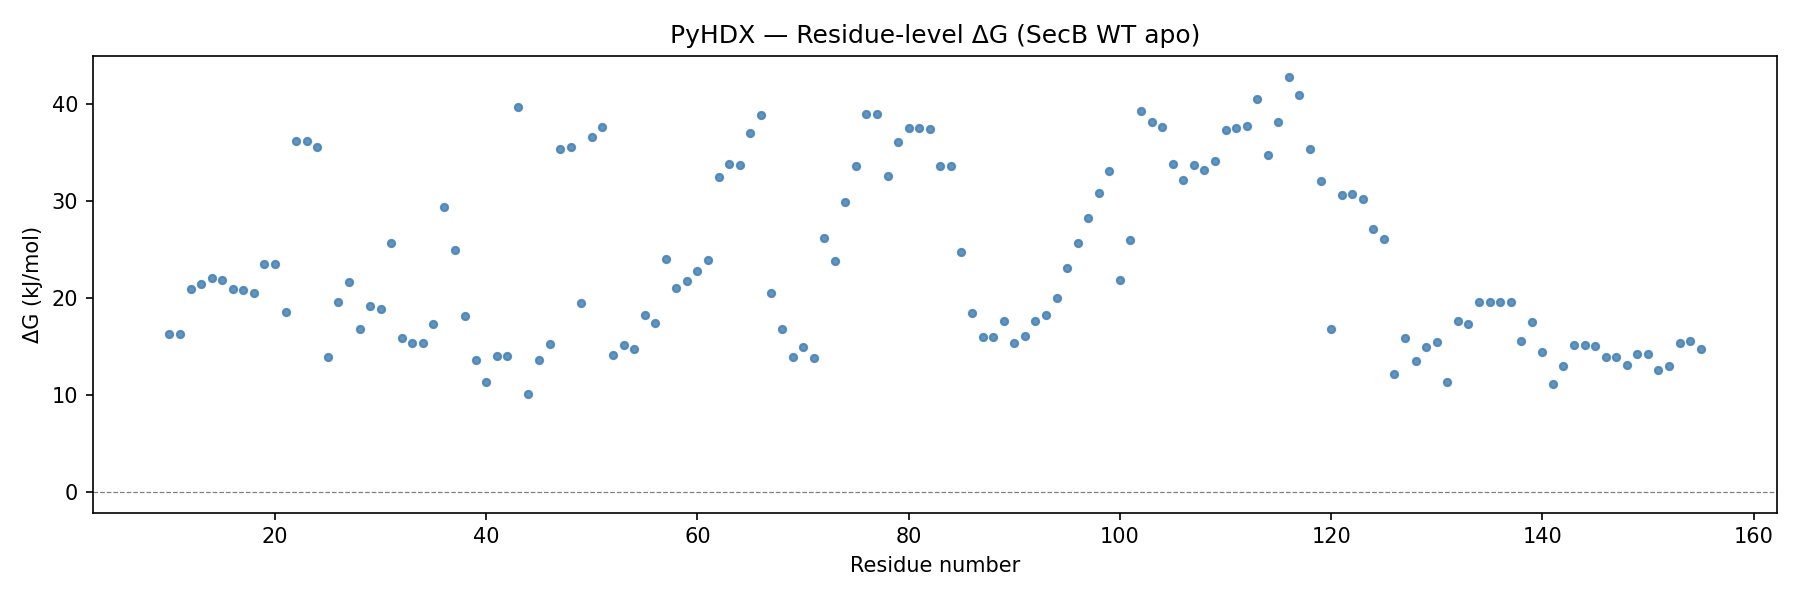
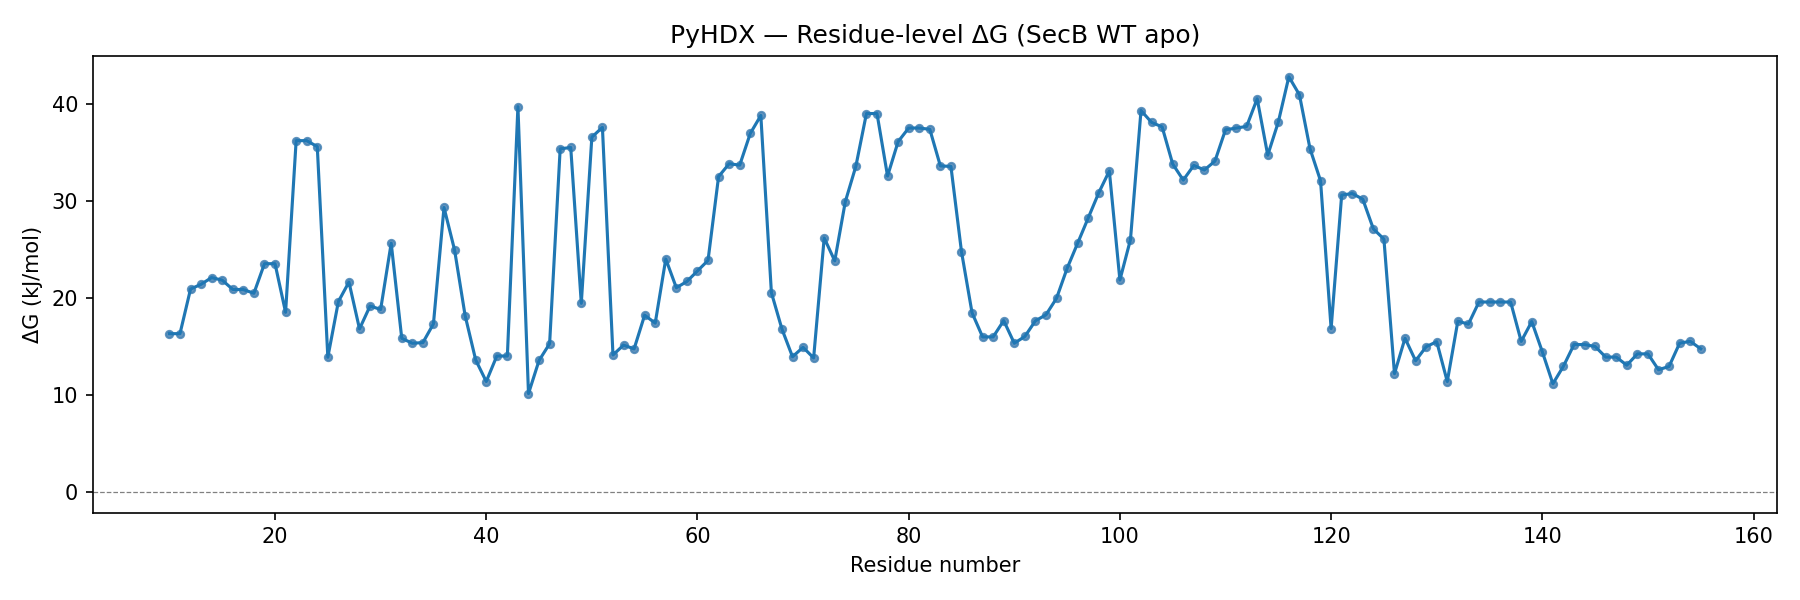
Add structure visualization colored by residue ΔG
Add render_dg_structure.py: loads SecB crystal structure (1QYN chain A),
maps ΔG values as b-factors, and renders a blue-white-red cartoon image.
Update dG plot PNG with connecting line between scatter points.

diff --git a/render_dg_structure.py b/render_dg_structure.py
@@ -1,0 +1,63 @@
+"""
+Render SecB crystal structure (1QYN) colored by residue-level ΔG from PyHDX.
+Color ramp: blue (low ΔG, fast-exchanging) → white → red (high ΔG, well-protected).
+Residues with no ΔG data are shown in grey.
+Output: outputs/pyhdx_dG_structure.png
+"""
+
+import pandas as pd
+from pathlib import Path
+
+# ── Load ΔG data ──────────────────────────────────────────────────────────────
+dg_kj = pd.read_csv("outputs/pyhdx_dG.csv", index_col="r_number")["dG_kJ_mol"]
+dg_min = dg_kj.dropna().min()
+dg_max = dg_kj.dropna().max()
+print(f"ΔG range: {dg_min:.1f} – {dg_max:.1f} kJ/mol  ({len(dg_kj.dropna())} residues)")
+
+# ── Launch PyMOL in headless mode ─────────────────────────────────────────────
+import pymol
+from pymol import cmd
+
+pymol.finish_launching(["pymol", "-cq"])   # -c = no GUI, -q = quiet
+
+# Load the bundled PDB (1QYN, tetramer A/B/C/D)
+PDB = "/tmp/hdxms_data/HDX_D9096080/data/SecB_structure.pdb"
+cmd.load(PDB, "secb")
+
+# Cartoon representation, white background
+cmd.hide("everything", "secb")
+cmd.show("cartoon", "secb")
+cmd.bg_color("white")
+
+# Only show chain A (one monomer is sufficient for interpretation)
+cmd.remove("secb and not chain A")
+
+# Set all b-factors to -1 (sentinel = no data → will be grey)
+cmd.alter("secb", "b = -1.0")
+
+# Assign ΔG values as b-factor; resi selector needs integer string
+for resi, dg in dg_kj.dropna().items():
+    cmd.alter(f"secb and resi {int(resi)}", f"b = {dg:.4f}")
+
+cmd.rebuild()
+
+# Color by ΔG: grey for no-data, blue→white→red for data range
+cmd.color("grey70", "secb")
+cmd.spectrum("b", "blue_white_red", "secb and b > -0.5",
+             minimum=dg_min, maximum=dg_max)
+
+# Nice view
+cmd.orient("secb")
+cmd.zoom("secb", 3)
+cmd.set("cartoon_fancy_helices", 1)
+cmd.set("ray_shadows", 0)
+cmd.set("ambient", 0.4)
+cmd.set("ray_opaque_background", 1)
+
+# Render and save
+OUT = "outputs/pyhdx_dG_structure.png"
+cmd.ray(2400, 1600)
+cmd.png(OUT, dpi=150)
+print(f"Saved: {OUT}  ({Path(OUT).stat().st_size / 1024:.1f} kB)")
+
+cmd.quit()

diff --git a/pipeline_19_pyhdx.py b/pipeline_19_pyhdx.py
@@ -183,6 +183,7 @@ dg_values = dg_kj["dG_kJ_mol"].dropna()
 
 fig, ax = plt.subplots(figsize=(12, 4))
 ax.scatter(dg_values.index, dg_values.values, s=12, color="steelblue", alpha=0.85)
+ax.plot(dg_values.index, dg_values.values)
 ax.set_xlabel("Residue number")
 ax.set_ylabel("ΔG (kJ/mol)")
 ax.set_title("PyHDX — Residue-level ΔG (SecB WT apo)")
